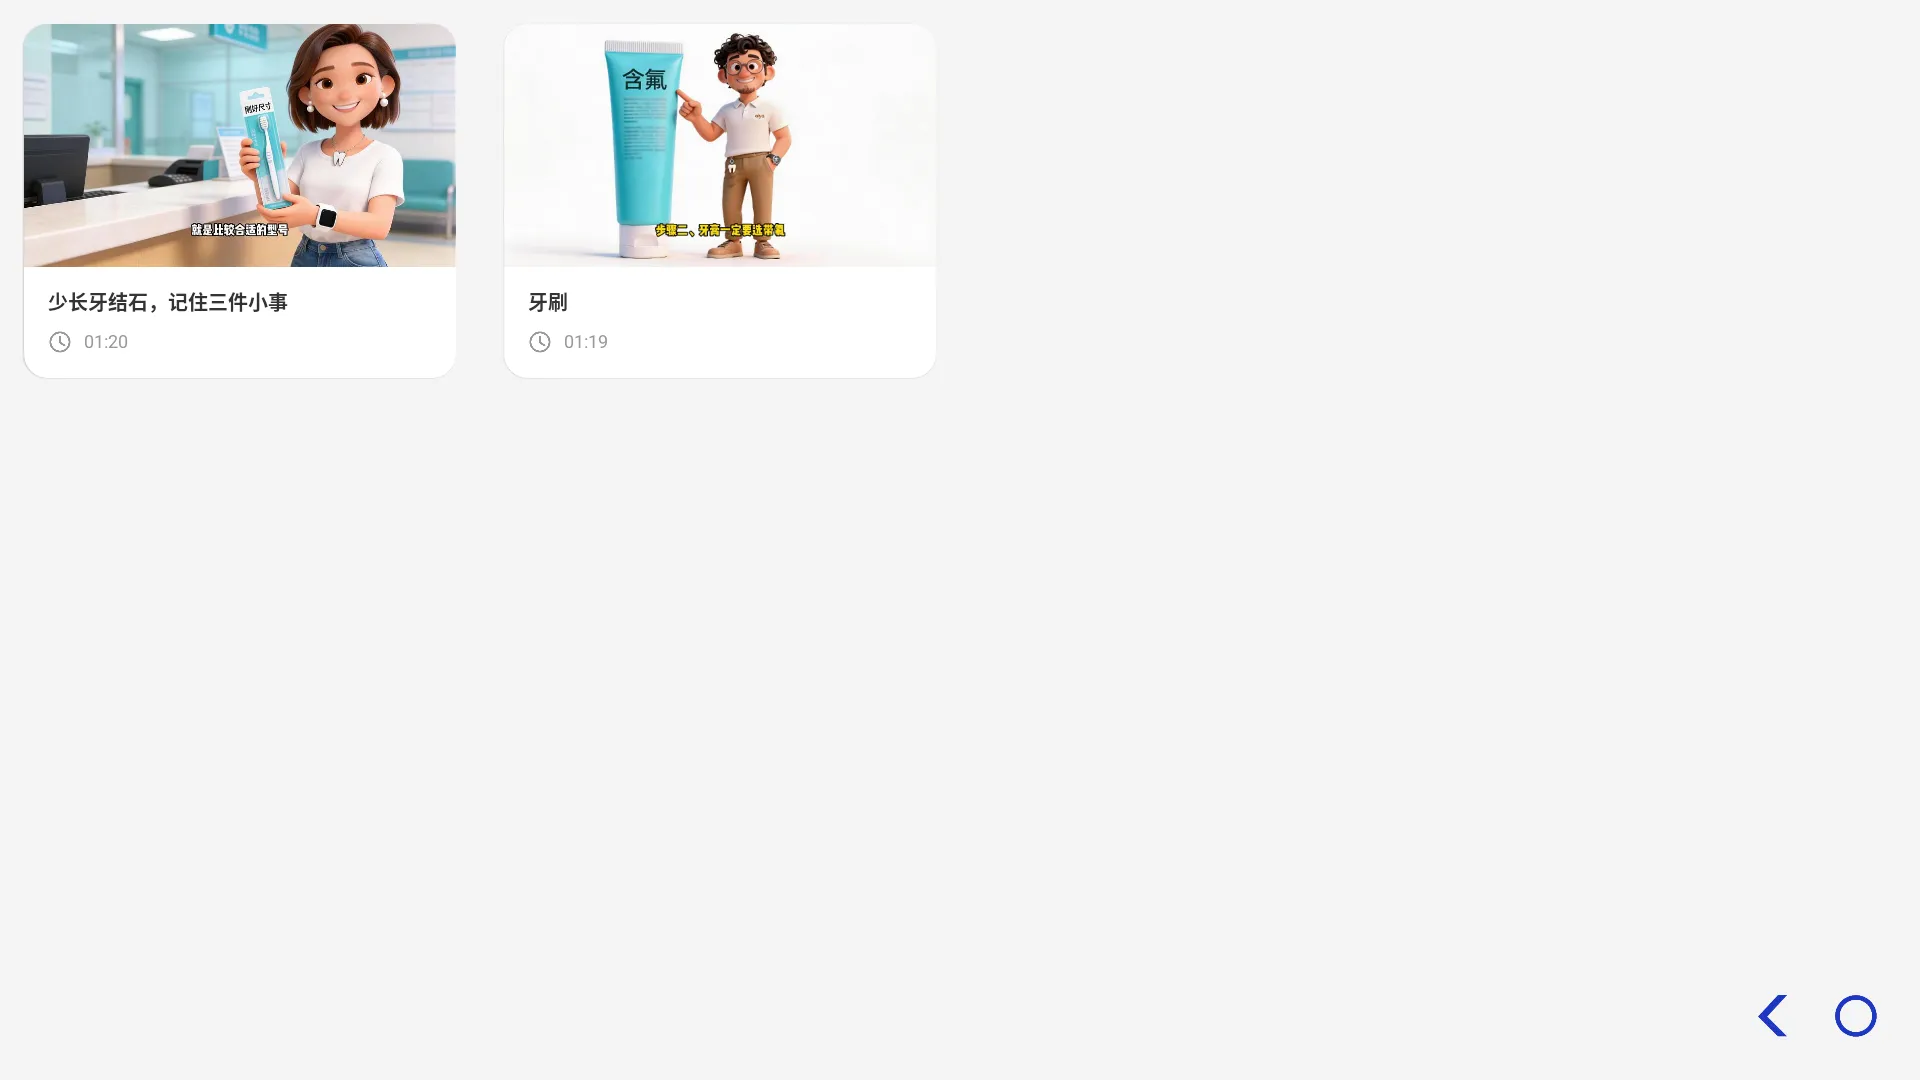
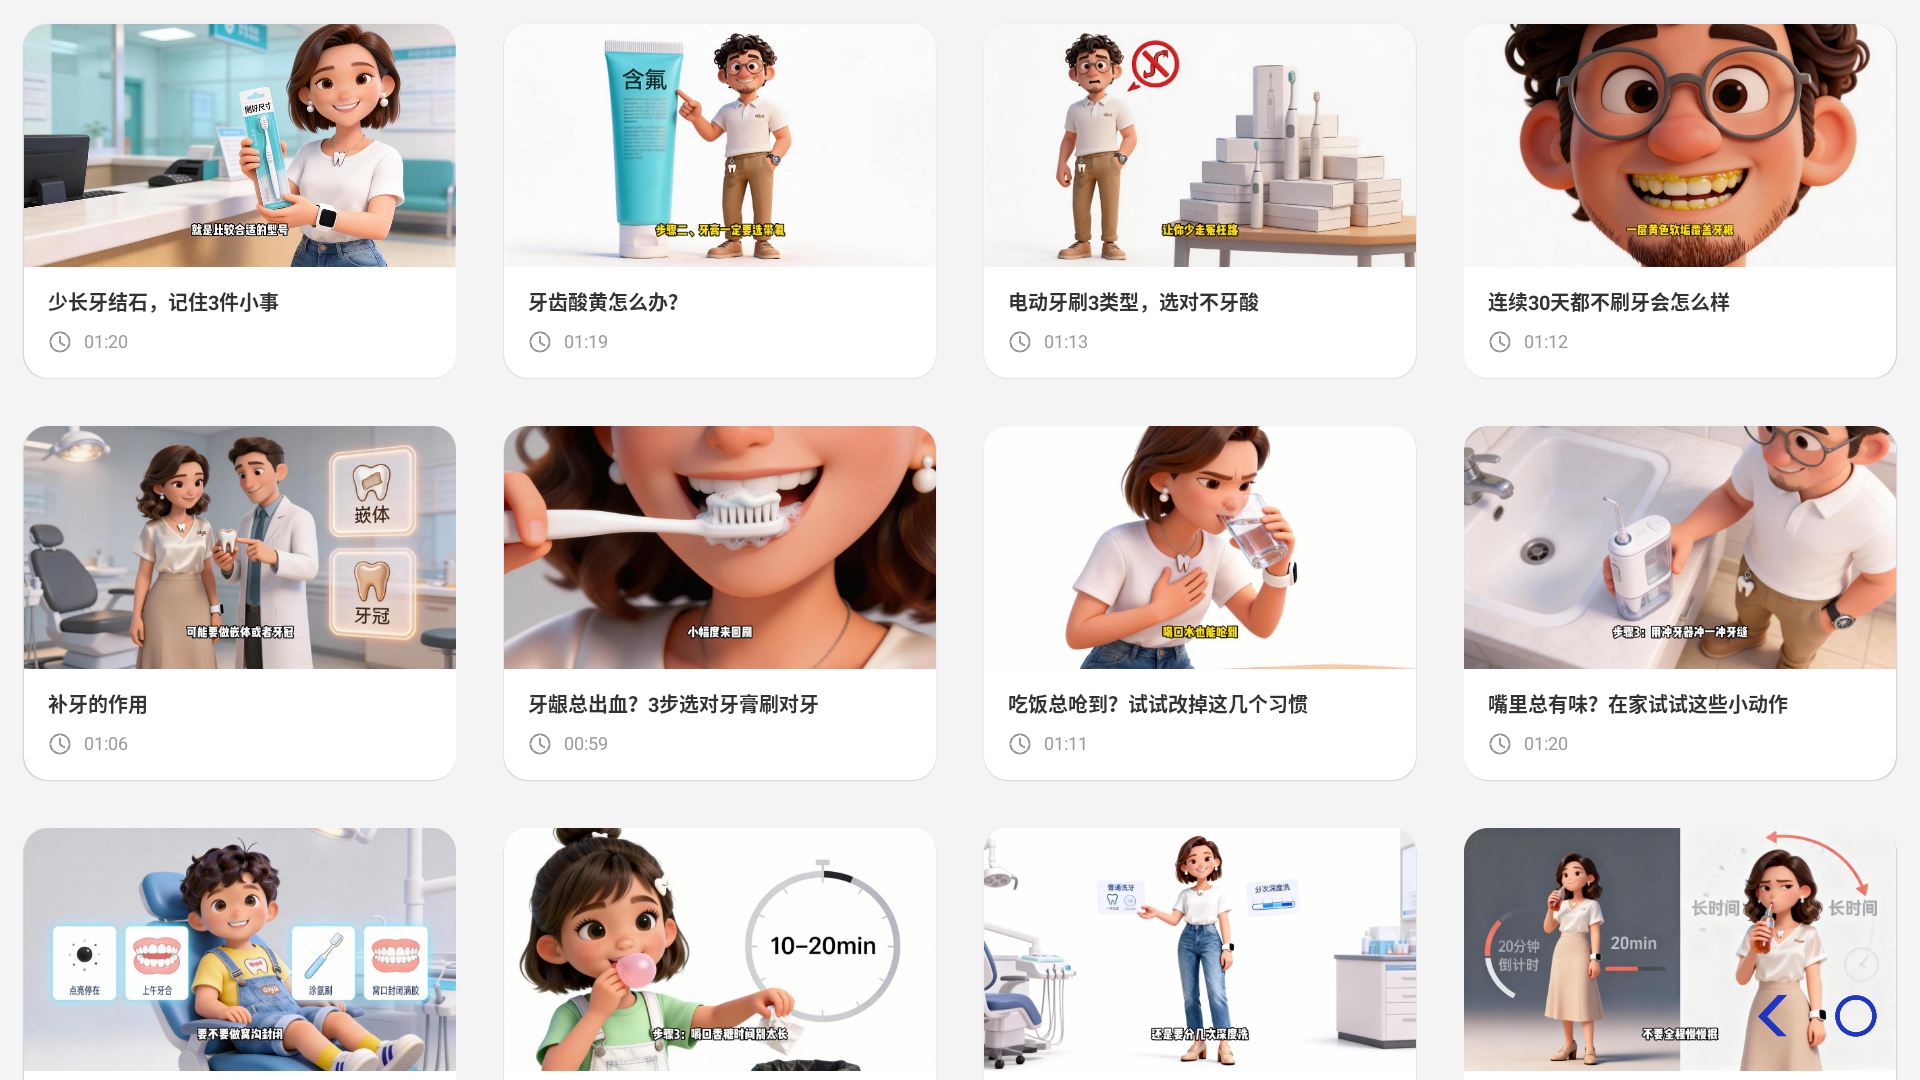
完善操作手册

diff --git a/docs/articles/operate-doc.md b/docs/articles/operate-doc.md
@@ -1,29 +1,48 @@
 # 1、登陆注册
+
 ## 登录
+
 登陆账号为爱牙看看云平台（https://www.aiyakankan.com）账号，若已有爱牙看看云平台账号则使用云平台账号账号密码直接登陆即可。
 
 <img src="/images/operate-doc-assets/login.png" width="100%" title="" crop="0,0,1,1" id="u4992ef50" class="ne-image">
 
 同时，登录页提供注册和单机选项。
 
+当不登陆账号，使用单机模式，则客户数据仅存在于设备上，客户可使用牙镜检查和拍摄照片但是不能生成报告（如需要全部功能，请使用云平台账号注册并登陆）。
+
+单机模式功能列表：
+
+- 1、AI检查：新增客户、拍摄照片（照片存储在设备上）、查看照片。
+- 2、门诊应用。
+- 3、无线投屏。
+- 4、影音模式。
+
 ## 注册
+
 注册页注册步骤和爱牙看看云平台（https://www.aiyakankan.com）注册步骤一致，且账号互通。注册完成之后即可返回登陆。
 
 <img src="/images/operate-doc-assets/register.png" width="100%" title="" crop="0,0,1,1" id="uc1cbdd38" class="ne-image">
 
 # 2、首页
+
 ## AI 检查
+
 进入 AI 检查可查看客户列表和新增客户。若当前已登陆则客户数据和云平台互通，若未登录则客户数据仅存在于设备上，与云平台不互通。
 
 可在此操作检查、查看照片、查看报告。
 
 <img src="/images/operate-doc-assets/ai-check.png" width="100%" title="" crop="0,0,1,1" id="ua4798c88" class="ne-image">
 
+更新用户：
+
+当登录账号后，点击更新用户会把未登录时保存在本机上的用户数据同步到云平台。
+
 新增用户：
 
 <img src="/images/operate-doc-assets/add-customer.png" width="100%" title="" crop="0,0,1,1" id="uf69e2ab9" class="ne-image">
 
 ### 开始检查
+
 点击客户卡片的开始检查按钮进入检查页面，请提前连接 A6M 设备，确保可以出现设备镜头画面，设备拍照按钮为触摸拍照，右侧为拍摄照片列表，点击某照片进入 4 分格展示。
 
 <img src="/images/operate-doc-assets/begin-check.png" width="100%" title="" crop="0,0,1,1" id="uf69e2ab9" class="ne-image">
@@ -36,6 +55,7 @@
 <img src="/images/operate-doc-assets/pics.png" width="100%" title="" crop="0,0,1,1" id="u45eb4ccf" class="ne-image">
 
 ### 报告
+
 点击客户卡片的报告按钮，查看客户历史报告列表。
 
 <img src="/images/operate-doc-assets/reports.png" width="100%" title="" crop="0,0,1,1" id="u45eb4ccf" class="ne-image">
@@ -50,6 +70,7 @@
 
 
 ## 接诊洽谈
+
 进入接诊洽谈页可看到所有分类：
 
 <img src="/images/operate-doc-assets/rc.png" width="100%" title="" crop="0,0,1,1" id="u45eb4ccf" class="ne-image">
@@ -60,12 +81,14 @@
 
 
 ## 门诊应用
-<img src="/images/operate-doc-assets/link.png" width="100%" title="" crop="0,0,1,1" id="u45eb4ccf" class="ne-image">
 
 提供 e 看牙、轻松牙医、牙医管家平台快速访问。
 
+<img src="/images/operate-doc-assets/link.png" width="100%" title="" crop="0,0,1,1" id="u45eb4ccf" class="ne-image">
+
 
 ## 无线投屏
+
 点击进入投屏模式，可使用手机和电脑进行投屏。
 
 <video width="100%" height="auto" controls>
@@ -74,19 +97,33 @@
 
 
 ## 影音模式
+
 可进入爱奇艺、QQ 音乐、录像机。
 
 <img src="/images/operate-doc-assets/video.png" width="100%" title="" crop="0,0,1,1" id="u45eb4ccf" class="ne-image">
 
+### 录像机
+
+录像机提供设备前摄录像功能。
+
+<img src="/images/operate-doc-assets/luxiangji.png" width="100%" title="" crop="0,0,1,1" id="u45eb4ccf" class="ne-image">
+
+影像可在录像带中查看。
+
+可再设置中自定义视频存储位置。
+
+<img src="/images/operate-doc-assets/storage-position.png" width="100%" title="" crop="0,0,1,1" id="u45eb4ccf" class="ne-image">
 
 ## 科普宣教
-查看科普宣教视频
+
+查看科普宣教视频。
 
 <img src="/images/operate-doc-assets/know-videos.png" width="100%" title="" crop="0,0,1,1" id="u45eb4ccf" class="ne-image">
 
 
 # 3、设置
-设置页提供账号信息查询与更新，版本检测与更新，隐私政策和用户服务协议，退出登录。
+
+设置页提供账号信息查询与更新，版本检测与更新，隐私政策和用户服务协议，操作手册，退出登录。
 
 <img src="/images/operate-doc-assets/setting.png" width="100%" title="" crop="0,0,1,1" id="u45eb4ccf" class="ne-image">
 
